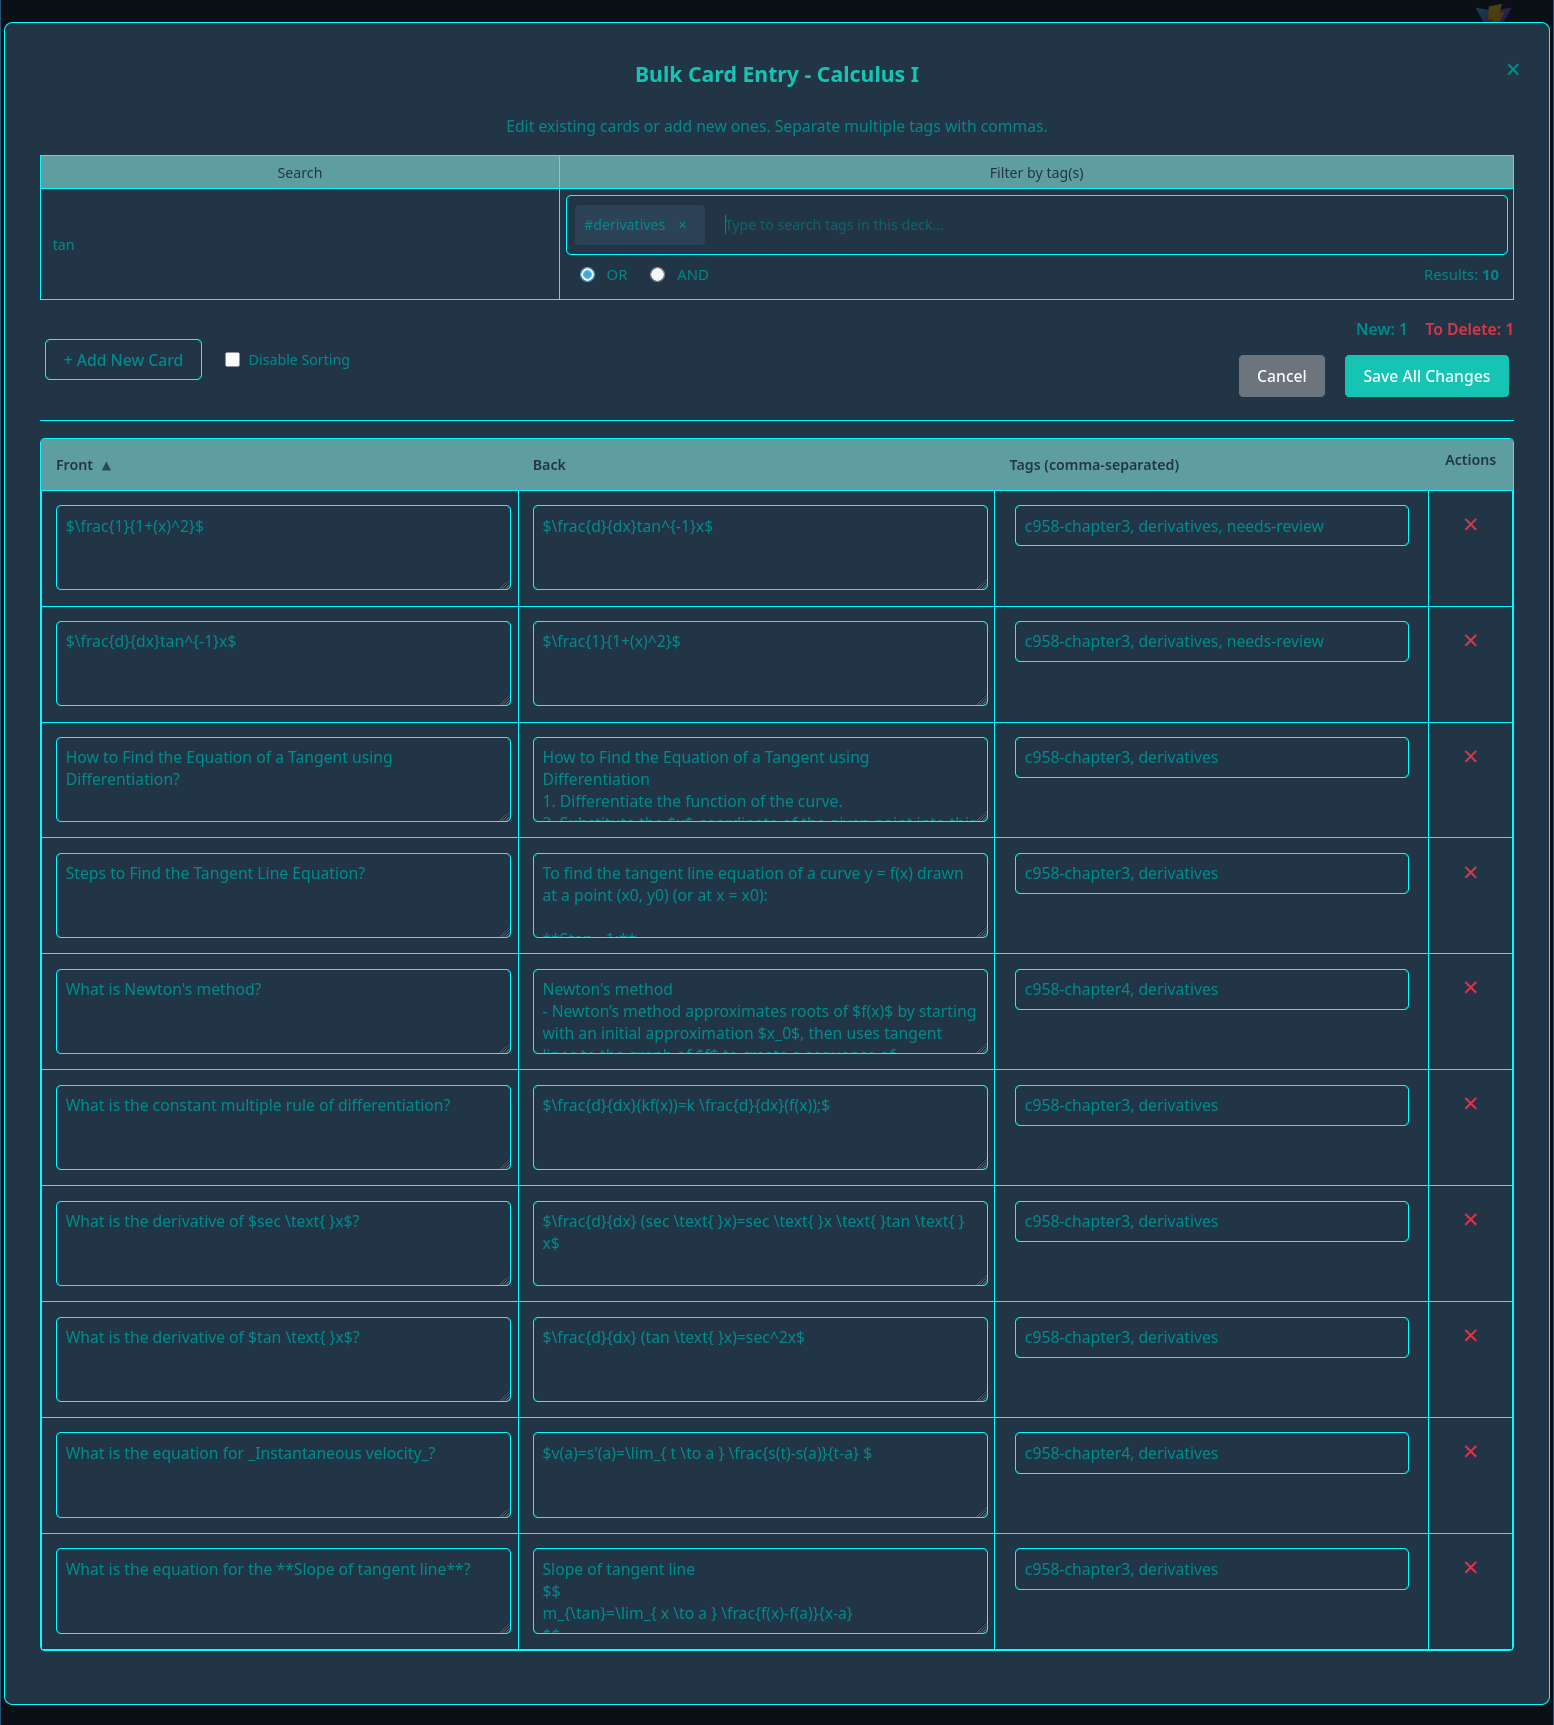
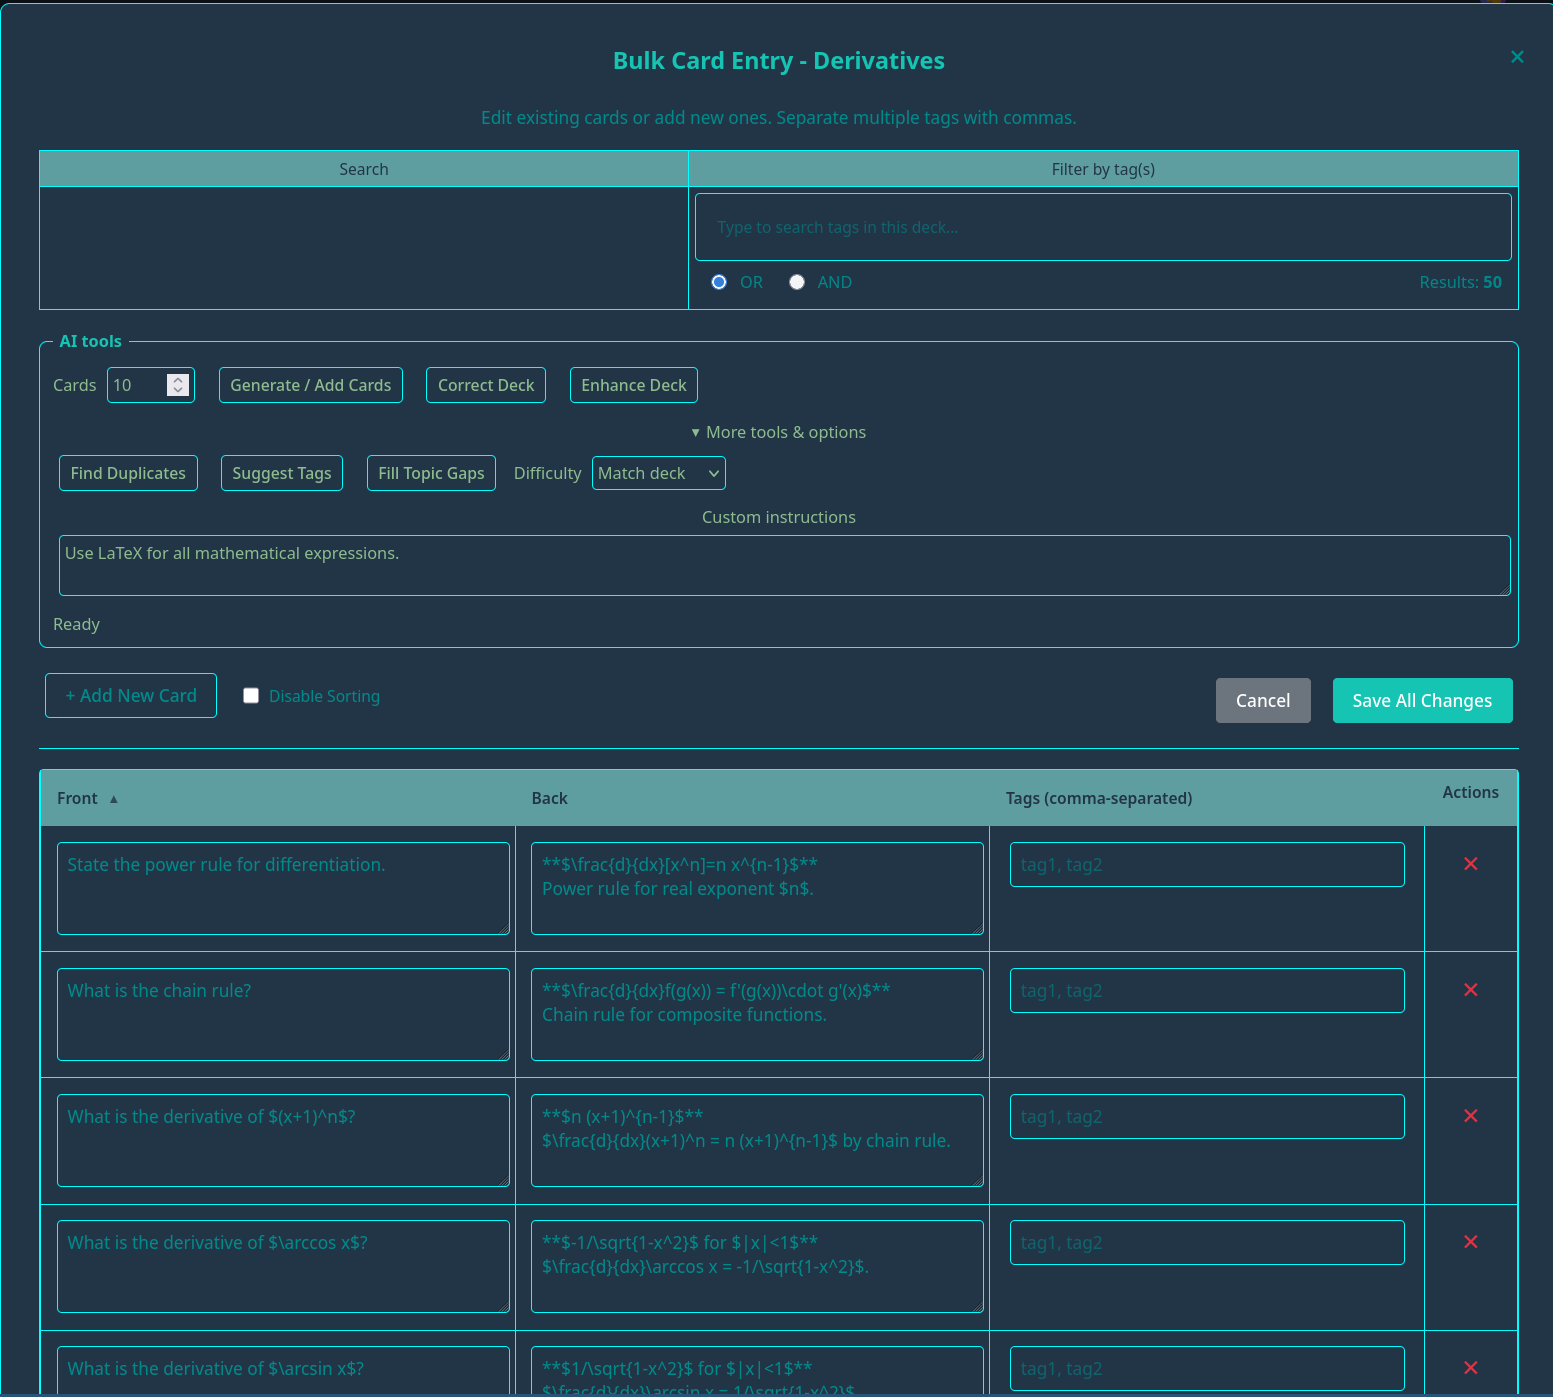
docs(writerside): document bulk ai tools and deck assist workflows
Add a dedicated Bulk-ai-tools guide and update Writerside documentation
to cover deck assist capabilities, operational limits, timeouts, and
troubleshooting.

- Add Writerside/topics/Bulk-ai-tools.md detailing deck operations,
  duplicate merging, topic gap filling, review/undo semantics, and limits
- Update TOC in aiforgot.tree to include the new bulk AI topic
- Document bulk AI architecture, configuration, and testing procedures
  across Architecture.md, Configuration.md, and Development.md
- Add troubleshooting notes for bulk AI tool error handling and timeouts
- Refresh bulk entry screenshot and cross-reference documentation in
  Overview, Guides, Roadmap, and Screenshots

Changed region(s): [[0.0, 0.0, 1.0, 1.0]]

diff --git a/Writerside/topics/Bulk-ai-tools.md b/Writerside/topics/Bulk-ai-tools.md
@@ -1,0 +1,102 @@
+# Bulk AI tools
+
+The bulk entry/updating editor includes an **AI tools** frame that works on the whole deck draft at once. It can generate additional cards, correct facts, enhance explanations, suggest additive tags, review duplicates for merging, and identify underrepresented topics.
+
+These tools use the same AI configuration as the rest of the app (an OpenAI-compatible endpoint, hosted or local). AI features are optional; without a configured endpoint the tools report a request failure. See [AI-Integration.md](AI-Integration.md) for setup.
+
+## What the tools do
+
+| Tool | Operation | Behavior |
+|------|-----------|----------|
+| Generate / Add Cards | `generate` | Adds the requested number of new, distinct cards (1–100) at the selected difficulty |
+| Correct Deck | `correct` | Fixes factual inaccuracies in front/back text; preserves tags and card identity |
+| Enhance Deck | `enhance` | Improves clarity, explanations, examples and Markdown formatting; preserves facts and difficulty |
+| Find Duplicates | `duplicates` | Proposes groups of duplicate cards with merged content; you select which merges to stage |
+| Suggest Tags | `tags` | Adds relevant tags, reusing existing deck tag spelling; never removes or renames tags |
+| Fill Topic Gaps | `gaps` | Suggests underrepresented topics inferred from the deck name and cards |
+
+Generate / Correct / Enhance are always visible. Find Duplicates, Suggest Tags, Fill Topic Gaps, the difficulty selector, and custom instructions are under **More tools & options**.
+
+## How it works
+
+- All actions use the **current draft**, including unsaved cards and cards hidden by search/tag filters. Deleted and blank rows are excluded.
+- **Changes stay in the editor** until you press **Save All Changes**. AI operations never write to the database directly.
+- Generation inserts new unsaved cards at the top of the grid.
+- Status, elapsed time, and errors are reported inside the AI tools frame while the request runs.
+- Closing the editor discards its draft and any pending results.
+
+> **Note:** The deck name, draft cards, tags, and selected topics are sent to the configured AI provider with every request. Treat it like any other AI feature and review output before saving.
+
+## Review, compare, and undo
+
+- **Compare Changes** shows before/after content and tags for the most recent staged AI operation.
+- **Undo Last AI Change** reverts only AI-owned values while preserving later manual edits. Conflicting fields are kept and reported. It is one level deep (no redo) and available until you save or close the editor.
+- If the draft changes while a request is running, the result is discarded and you are asked to run the operation again.
+
+## Duplicate merging
+
+1. Run **Find Duplicates**. The AI proposes non-overlapping groups with a reason and merged content.
+2. Review each group, select the ones you want, and press **Apply Selected Merges**.
+3. The **oldest saved card** survives and keeps its SRS review history; the other members are marked for deletion. Review histories are **not** combined. Tags from all group members are combined on the survivor.
+
+Saving the merge in one bulk save is transactional: a failed save rolls back updates, deletions, and review/audio cleanup together.
+
+## Topic gaps
+
+- **Fill Topic Gaps** only analyzes; selecting topics changes nothing by itself.
+- Select suggested topics, then press **Generate Cards for Selected Topics**. The card count is the **total** shared across all selected topics.
+- Suggestions become stale when the draft changes; rerun the analysis for fresh results.
+
+## Limits and timeouts
+
+| Limit | Value |
+|-------|-------|
+| Cards per request | 200 (draft rows with unique IDs) |
+| Card text | 5,000 characters per side (front/back) |
+| Custom instructions | 2,000 characters |
+| Generated cards | 1–100 per request |
+| Client-side abort | 12 minutes |
+| Server stream timeout | 15 minutes (with keep-alive heartbeats every 30 seconds) |
+
+Custom instructions refine language, audience, style, or formatting. They cannot override the operation's task, output schema, or additive-only tag behavior.
+
+## API and validation
+
+The backend exposes `POST /api/ai/deck-assist`, which requires authentication like the rest of the API. It responds with a **Server-Sent Events** stream: a `processing` comment, periodic heartbeats, then a `done` event with the validated JSON result or an `error` event with a safe, actionable message. Provider error bodies, credentials, and deck contents are never echoed back.
+
+Each operation has a strict JSON schema (`cards`, `groups`, `tags`, or `topics`). Before anything reaches the editor, the backend:
+
+- Rejects malformed or fenced output and reasoning-model channel markers
+- Validates response shape, row identifiers against the submitted draft, uniqueness, and counts (for example, `correct`/`enhance` must return every submitted card exactly once)
+- Enforces additive-only tags and rejects duplicate generated cards or repeated topic suggestions
+- Rejects incomplete responses (finish reason other than `stop`)
+
+If any check fails, the operation reports an error and **no changes are applied**. Hidden retries are disabled for these expensive calls.
+
+See the source for details: `DeckAssistService.java`, `DeckAssistController.java`, and the frontend `BulkAiTools.tsx`.
+
+## Testing the feature
+
+Backend checks (from the repo root):
+
+```bash
+./mvnw -Dskip.npm -Dskip.installnodenpm -Dtest=DeckAssistServiceTests,DeckAssistControllerTests,BulkAiSaveTests test
+```
+
+Opt-in live smoke tests against a real endpoint (synthetic cards only; responses are written under `target/`):
+
+```bash
+./mvnw -Dtest=DeckAssistLiveTests -DdeckAssist.smoke=true \
+    [-DdeckAssist.url=http://localhost:8087] [-DdeckAssist.model=...] [-DdeckAssist.operation=correct] test
+```
+
+For a hosted endpoint, supply `DECK_ASSIST_TEST_API_KEY` in the environment.
+
+Frontend checks (from `dep/ai-forgot-this-frontend`):
+
+```bash
+npm run test:deck-assist   # draft changes, merge/undo, SSE parsing
+npm run test:browser       # bulk entry workflow with mocked API responses
+```
+
+Browser tests need Chromium (`npx playwright install chromium`) or `PLAYWRIGHT_CHROMIUM_EXECUTABLE` pointing at an existing executable. They start their own Vite server and never call a model or database.

diff --git a/Writerside/topics/Troubleshooting.md b/Writerside/topics/Troubleshooting.md
@@ -21,6 +21,17 @@ Nexus can take 1–2 minutes to become ready. If builds fail to reach the mirror
 - `make export-db`/`make import-db` require local Postgres client tools.
 - If you don’t have them, use `make export-db-container` and `make import-db-container`.
 
+## Bulk AI tools errors
+
+Errors from the bulk editor AI tools appear inside the AI tools frame and never apply partial changes. Common cases:
+
+- **Request failed / endpoint errors** — check that the AI endpoint is running and reachable, credentials are valid, the model name is correct, and the model's context limit fits the draft. Try fewer cards.
+- **Timeouts** — the client aborts after 12 minutes and the backend stream times out after 15 minutes. Reduce the card count or increase the configured AI timeout.
+- **Malformed or incomplete AI responses** — retry; smaller batches produce more reliable output. Incomplete responses (finish reason other than `stop`) are rejected.
+- **"The draft changed during the request"** — run the operation again with the current draft.
+- **"Duplicate suggestions are no longer valid"** — the draft changed since the analysis; run Find Duplicates again.
+- **Undo conflicts** — later manual edits always win; conflicting fields are kept and reported.
+
 ## First place to look
 
 - App logs: `make tail-tomcat-logs`

diff --git a/Writerside/topics/Overview.md b/Writerside/topics/Overview.md
@@ -14,6 +14,7 @@ It’s designed for people who want a fast workflow for building study materials
   - **Review (SRS)**: shows due/new cards and updates scheduling based on your rating
   - **Cram**: studies all cards without changing SRS scheduling
 - Use AI as an assistant while creating/editing cards (optional)
+- Generate, correct, enhance, tag, deduplicate, and gap-check whole decks with AI tools in the bulk editor (optional)
 
 ## Key features
 
@@ -23,7 +24,7 @@ It’s designed for people who want a fast workflow for building study materials
 - **Markdown** and **LaTeX** rendering in cards
 - **Deck templates** for new-card defaults and render-only content that is always shown with each card
 - **Optional multilingual TTS** with deck/card JSON configuration and a Python/PyTorch sidecar
-- **Bulk entry/updating** of cards
+- **Bulk entry/updating** of cards, with **AI tools** to generate, correct, enhance, tag, merge duplicates, and find topic gaps across the draft
 - **Tag filtering** and a **tag cloud** in Cram and Review
 - Containerized build + deployment (no local JDK/Node required for the default workflow)
 

diff --git a/Writerside/topics/Development.md b/Writerside/topics/Development.md
@@ -25,3 +25,31 @@ npm run dev
 ```
 
 Production builds are typically done via the container/Docker build pipeline.
+
+## Tests
+
+Backend unit/integration tests (from the repo root):
+
+```bash
+./mvnw -Dskip.npm -Dskip.installnodenpm -Dtest=DeckAssistServiceTests,DeckAssistControllerTests,BulkAiSaveTests test
+```
+
+Opt-in live deck-assist smoke tests against a configured endpoint:
+
+```bash
+./mvnw -Dtest=DeckAssistLiveTests -DdeckAssist.smoke=true \
+    [-DdeckAssist.url=...] [-DdeckAssist.model=...] [-DdeckAssist.operation=correct] test
+```
+
+Hosted endpoints need `DECK_ASSIST_TEST_API_KEY` in the environment. These checks send only synthetic cards and never touch the application database.
+
+Frontend tests (from `dep/ai-forgot-this-frontend`):
+
+```bash
+npm run test:deck-assist   # draft changes, merge/undo, SSE parsing
+npm run test:browser       # bulk entry workflow with mocked API responses
+```
+
+Browser tests require Chromium (`npx playwright install chromium`, or set `PLAYWRIGHT_CHROMIUM_EXECUTABLE`).
+
+See [Bulk-ai-tools.md](Bulk-ai-tools.md) for what these suites cover.

diff --git a/Writerside/topics/AI-Integration.md b/Writerside/topics/AI-Integration.md
@@ -42,6 +42,20 @@ This value must be reachable **from inside the app container**. The Makefile add
 
 Model loading can be slow for larger models. First request latency may be high while tensors load.
 
+## Bulk card AI tools (deck assist)
+
+Beyond the per-card AI helpers, the bulk entry editor ships AI tools for the whole
+deck draft: generating additional cards, correcting facts, enhancing explanations,
+additive tag suggestions, duplicate merge review, and topic gap analysis. They run
+against the same OpenAI-compatible endpoint configured above, through a validated
+SSE endpoint (`POST /api/ai/deck-assist`).
+
+Model quality and context size matter here: the request carries the deck name and
+draft, and responses are strictly validated. Larger decks benefit from a model with
+a large context window.
+
+See the dedicated guide: [Bulk-ai-tools.md](Bulk-ai-tools.md)
+
 ## Optional TTS mode
 
 Decks can optionally enable multilingual text-to-speech. The Java backend owns

diff --git a/Writerside/topics/Architecture.md b/Writerside/topics/Architecture.md
@@ -7,7 +7,7 @@ Ai Forgot These Cards is built as a SPA + backend + database, with optional AI i
 - **Frontend**: React/Vite SPA
 - **Backend**: Spring Boot application packaged as a WAR and run on Tomcat
 - **Persistence**: JPA/Hibernate, backed by Postgres (default) or SQLite single-file mode
-- **AI (optional)**: Spring AI ChatClient talking to an OpenAI-compatible API (hosted provider or llama.cpp)
+- **AI (optional)**: Spring AI ChatClient talking to an OpenAI-compatible API (hosted provider or llama.cpp), including a validated SSE deck-assist endpoint for the bulk card AI tools
 - **TTS (optional)**: Java-owned TTS API and WAV cache backed by a Python/FastAPI PyTorch sidecar
 
 ```mermaid

diff --git a/Writerside/topics/Guides.md b/Writerside/topics/Guides.md
@@ -10,6 +10,7 @@ This section contains deeper guides for operating and understanding the project.
 - Run prebuilt container images (GHCR): [Container-images.md](Container-images.md)
 - Database management and portability: [Database.md](Database.md)
 - AI providers (hosted or llama.cpp): [AI-Integration.md](AI-Integration.md)
+- Bulk editor AI tools: [Bulk-ai-tools.md](Bulk-ai-tools.md)
 - Optional multilingual TTS: [Text-to-speech.md](Text-to-speech.md)
 - Security, login, and CSRF: [Security-and-auth.md](Security-and-auth.md)
 - Operations (logs, actuator, Swagger): [Operations-and-monitoring.md](Operations-and-monitoring.md)

diff --git a/Writerside/topics/Configuration.md b/Writerside/topics/Configuration.md
@@ -43,6 +43,8 @@ Related commands:
 
 If you run llama.cpp on the host, the container targets use a host gateway mapping so `http://host.docker.internal:<port>` can work on Linux.
 
+The local llama.cpp CUDA build also accepts an optional `CUDA_HOST_COMPILER` variable (leave empty to let CMake auto-detect; set it when `nvcc` picks the wrong host gcc).
+
 See: [AI-Integration.md](AI-Integration.md)
 
 ## TTS settings (optional)

diff --git a/Writerside/topics/Screenshots.md b/Writerside/topics/Screenshots.md
@@ -40,6 +40,10 @@ This page shows some key screens from **Ai Forgot These Cards**.
 
 ![Bulk entry/updating](../images/bulk_entry.png)
 
+The bulk editor also includes an **AI tools** frame for generating, correcting,
+enhancing, tagging, deduplicating, and gap-checking the draft. See
+[Bulk-ai-tools.md](Bulk-ai-tools.md).
+
 ## Markdown table support
 
 ![Markdown table support](../images/markdown_tables.png)

diff --git a/Writerside/topics/Roadmap.md b/Writerside/topics/Roadmap.md
@@ -12,6 +12,7 @@ This project is actively evolving. Highlights from the current roadmap:
 - Optional build-time dependency caching via Nexus (Maven + APT)
 - SRS-based review mode and cram mode
 - Tag filtering + tag cloud
+- Bulk card AI tools in the bulk editor (generate, correct, enhance, tags, duplicate merge review, topic gaps)
 - Swagger / OpenAPI support
 - SQLite single-file mode
 
